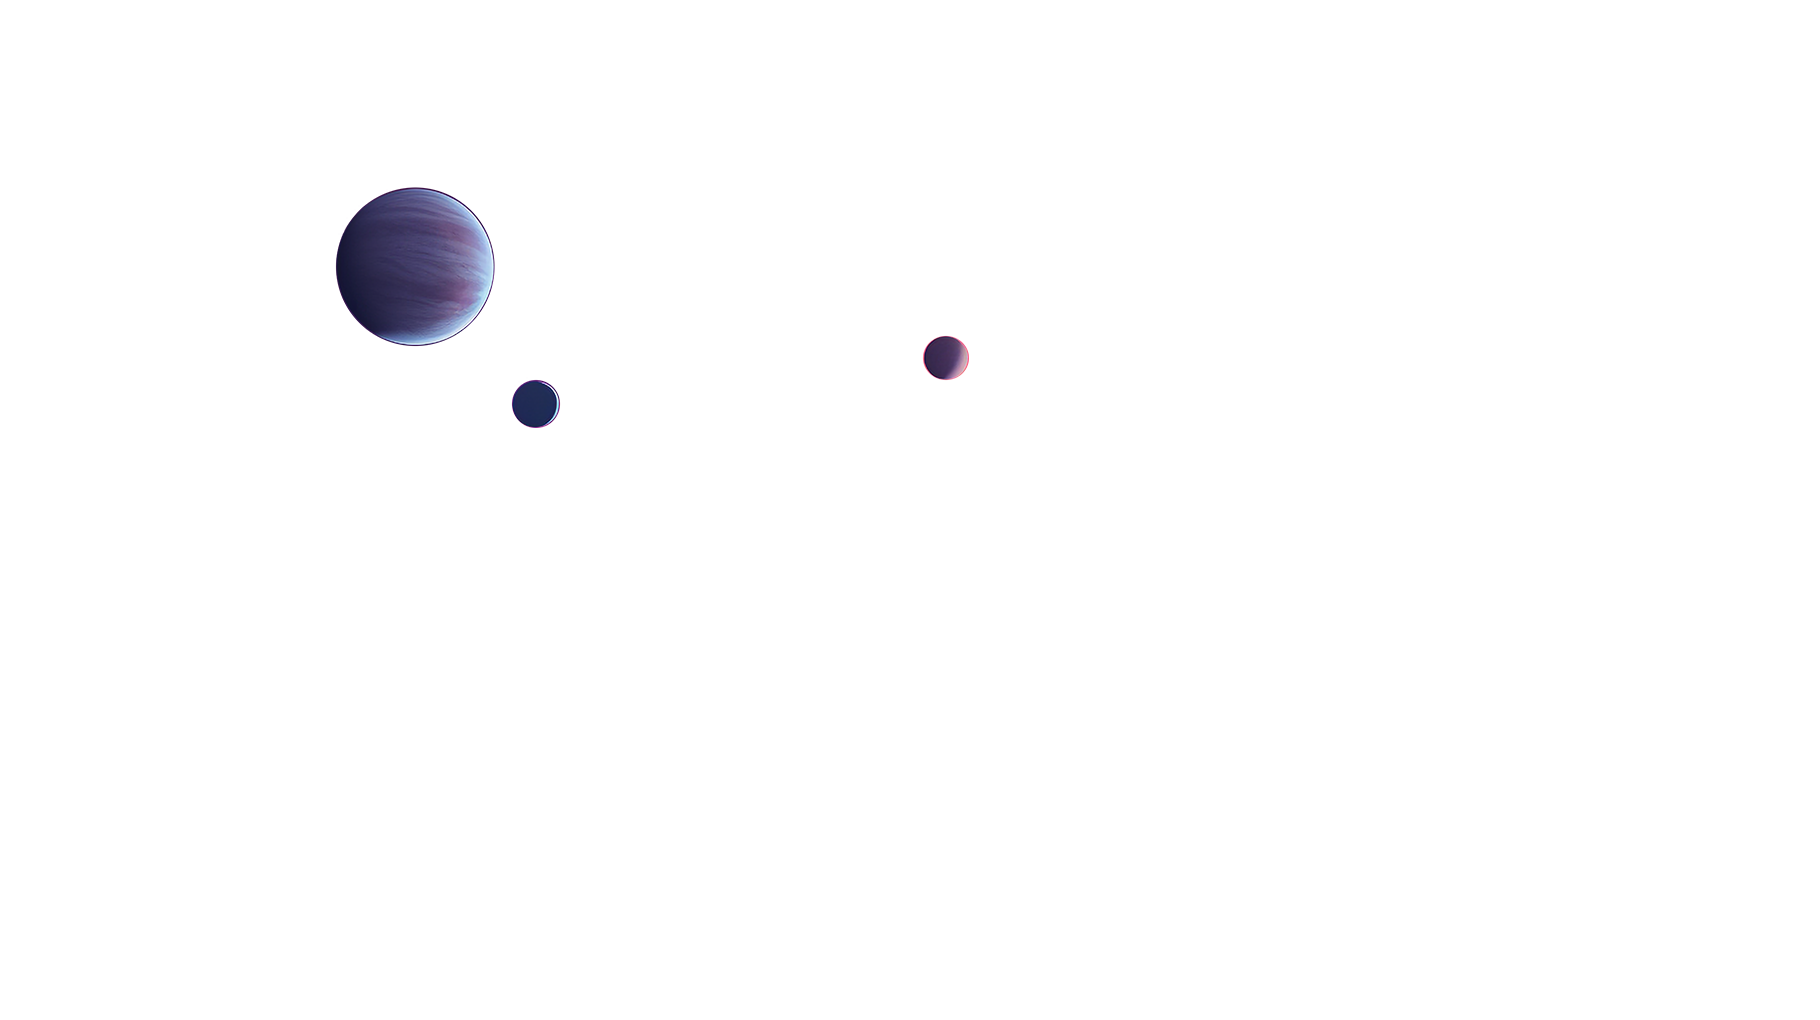
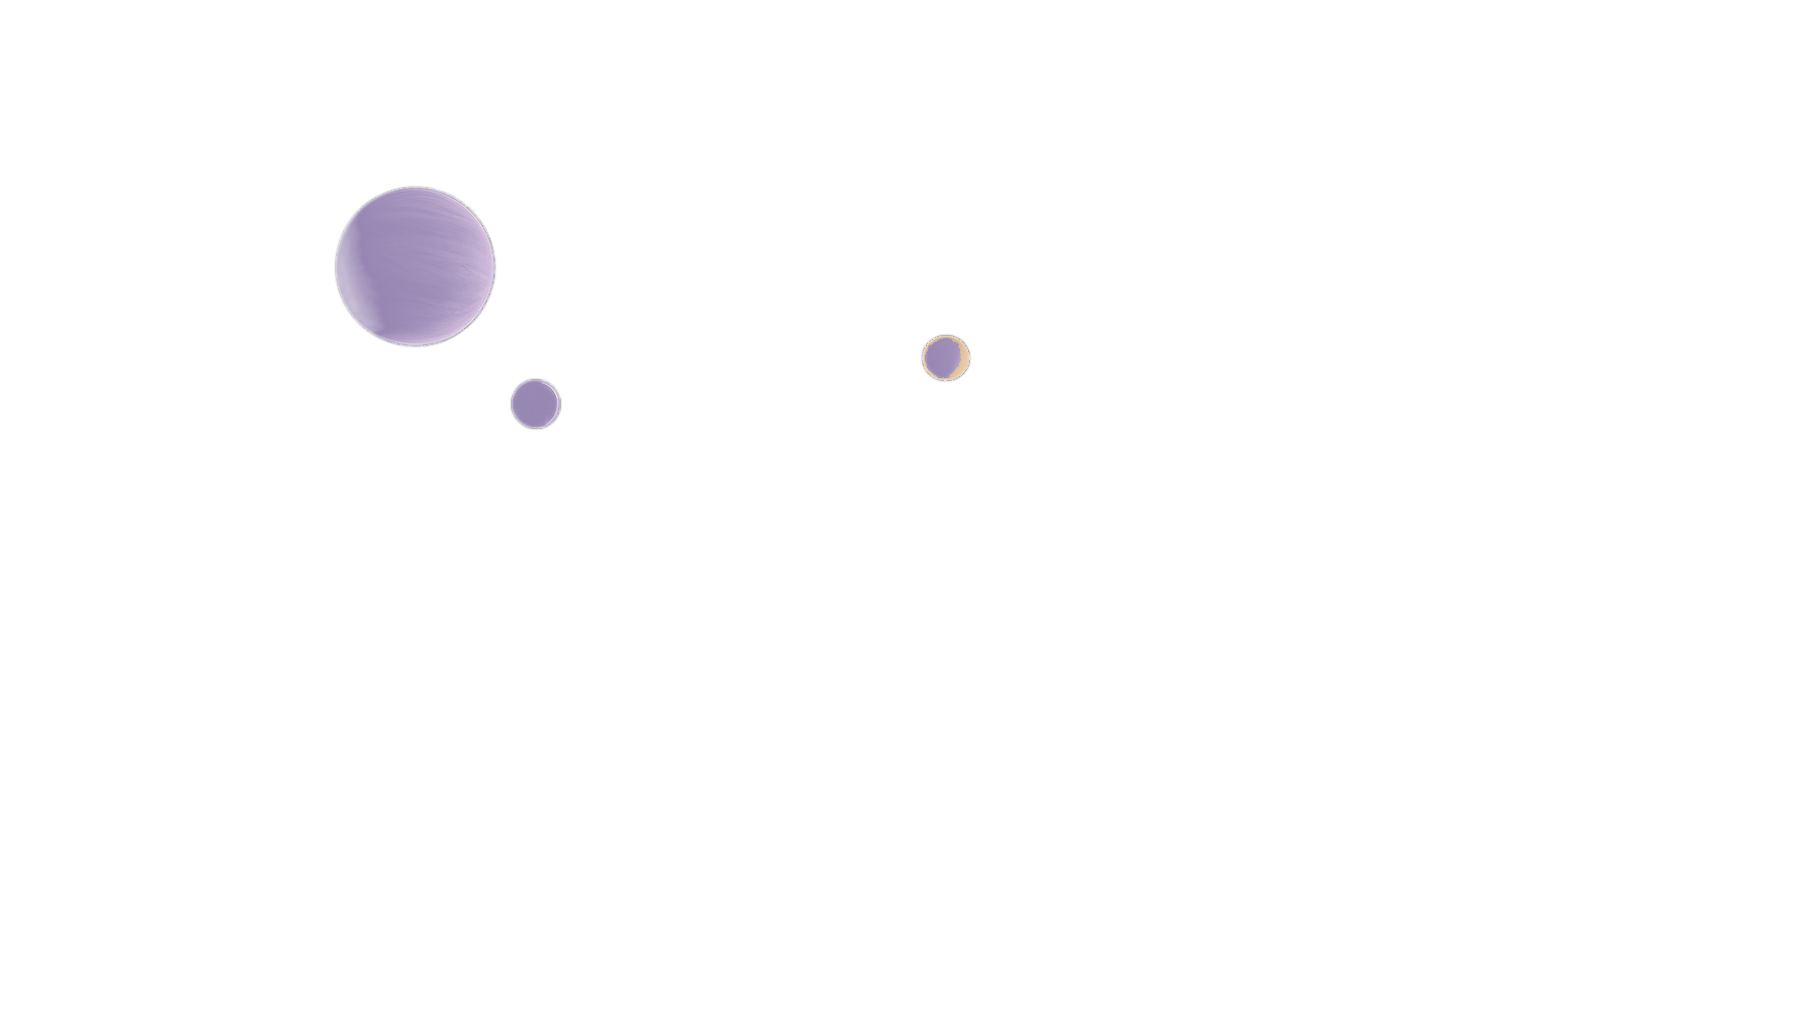
first commit

Changed region(s): [[0.1846, 0.1824, 0.2769, 0.3647], [0.4923, 0.3343, 0.5538, 0.3951], [0.2769, 0.3647, 0.3077, 0.4255]]

diff --git a/src/index.css b/src/index.css
@@ -8,13 +8,15 @@
   --color-storm: #282b4b;
   --color-aqua: #33c2cc;
   --color-mint: #57db96;
-  --color-royal: #5c33cc;
-  --color-lavender: #7a57db;
   --color-fuchsia: #ca2f8c;
   --color-orange: #cc6033;
   --color-sand: #d6995c;
   --color-coral: #ea4884;
   --animate-orbit: orbit 50s linear infinite;
+  --color-royal: #c9a96e;     
+--color-lavender: #e8d5b0; 
+--color-dusk: #2a1f3d;      
+--color-twilight: #1a1628;   
   @keyframes orbit {
     0% {
       transform: rotate(calc(var(--angle) * 1deg))
@@ -115,6 +117,9 @@ body {
 
 .grid-default-color {
   @apply p-6 bg-gradient-to-b from-storm to-indigo rounded-2xl;
+}
+.grid-constellation-color {
+  @apply p-6 bg-gradient-to-b from-dusk to-twilight rounded-2xl;
 }
 
 .grid-special-color {

diff --git a/src/section/About.jsx b/src/section/About.jsx
@@ -146,7 +146,7 @@ const About = () => {
             </div>
 
         {/* Grid 5 */}
-       <div className="grid-default-color grid-5">
+        <div className="grid-constellation-color grid-5">
           <div className="z-10 w-[50%]">
             <div>
                 <p className="headtext"> Mes constellations de code </p>
